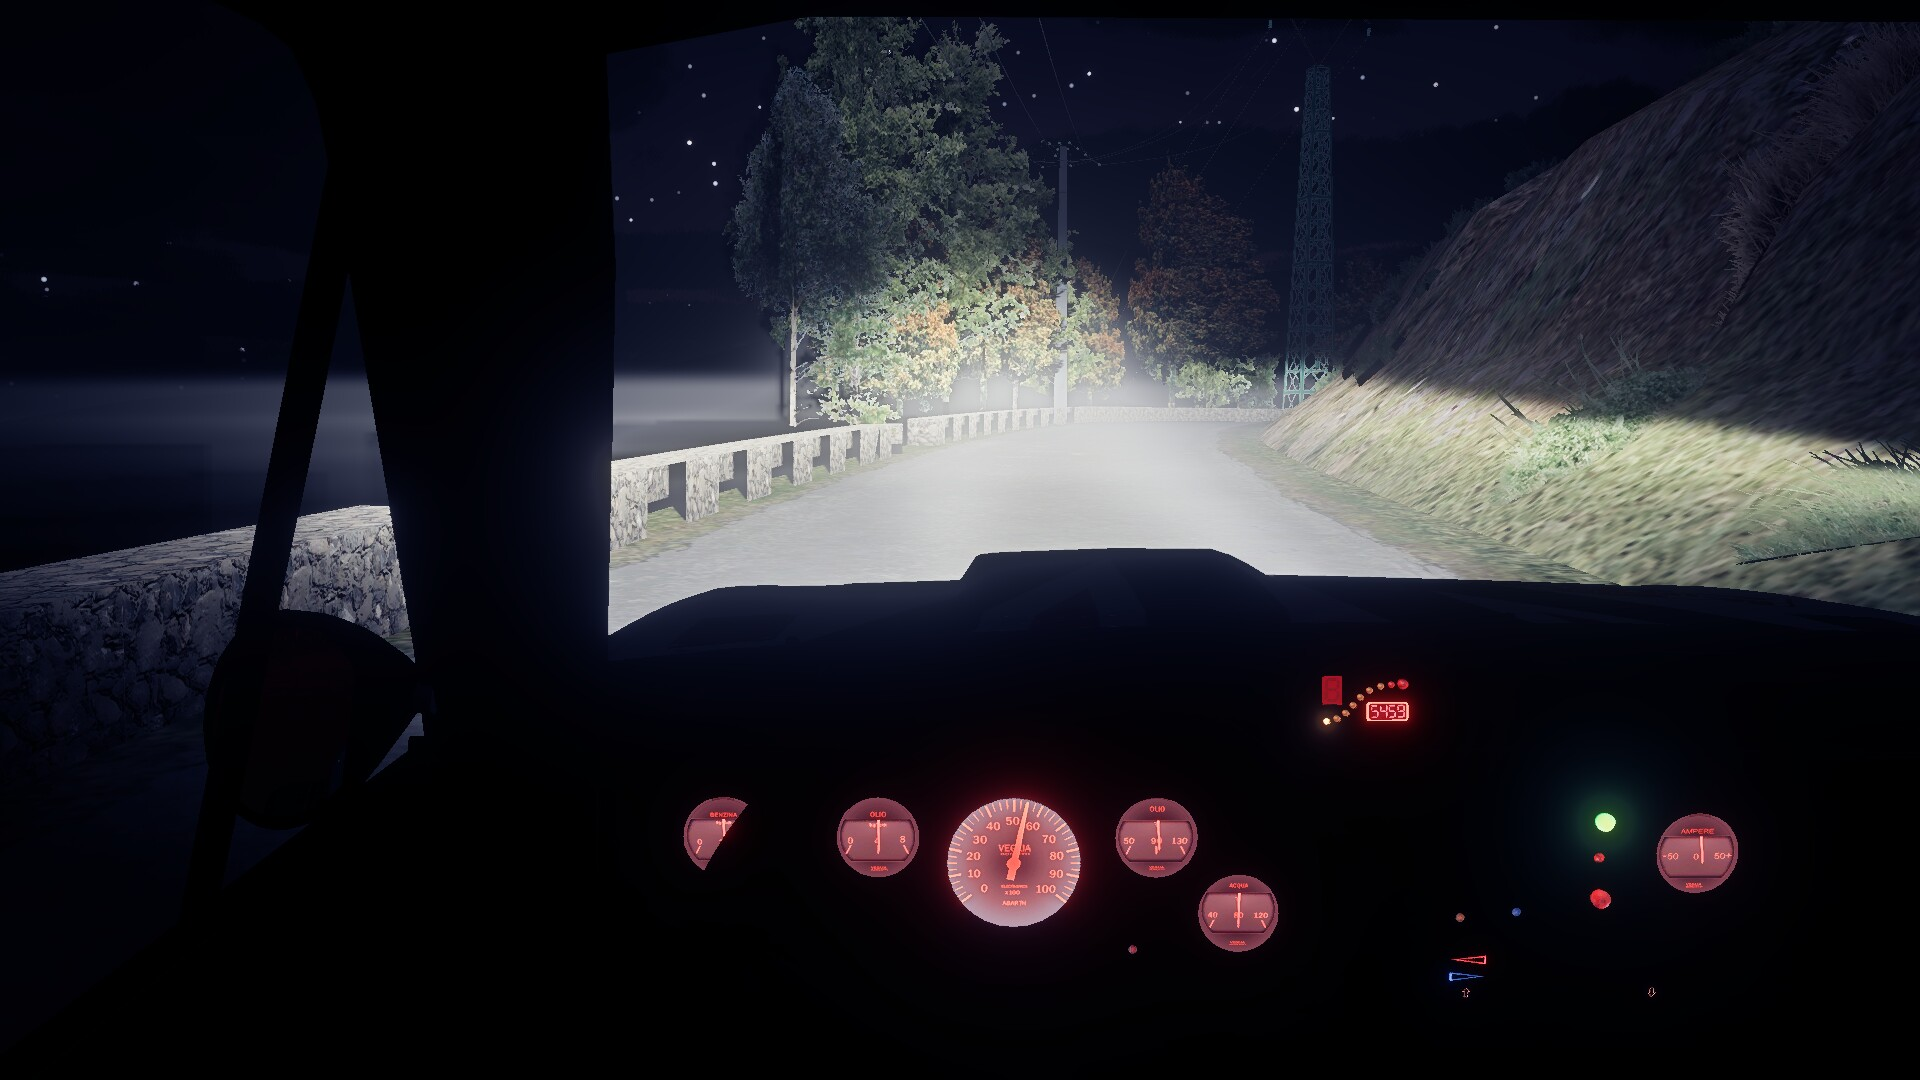
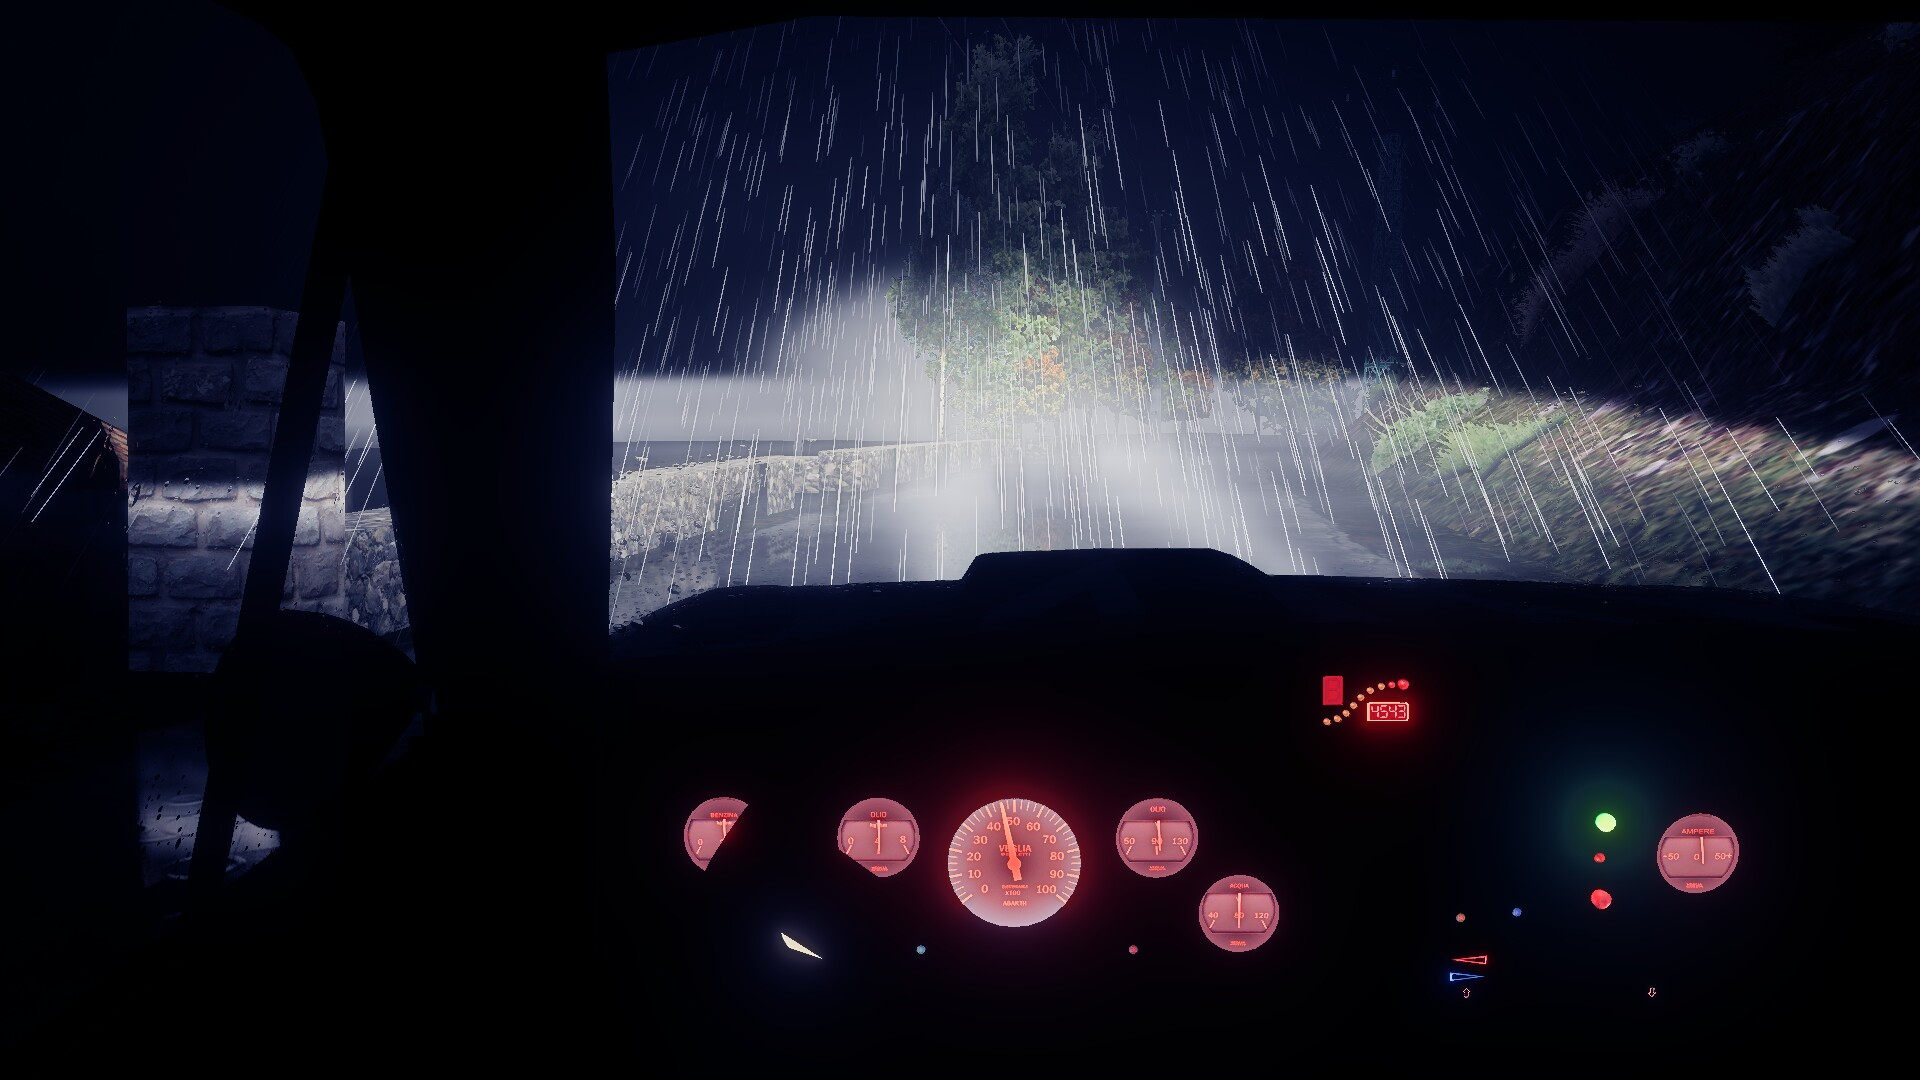
Reference shots: the Luceram GC8 fly-by and cockpit and the 131 night cockpit in heavy rain

diff --git a/README.md b/README.md
@@ -29,7 +29,7 @@ later). Everything you know and love + optional enhancements. Bring your own gam
 | Renault Clio Rally3 (model by DMRally74), Sipirkakim, Japan | Peugeot 208 Rally4 (model by DMRally74), Helette (stage by MonkeyZy) |
 | ![The cockpit of a Subaru Impreza GC8 555 in fog on Alpes Rally, the road fading into the haze](docs/shots/fog-alpes-gc8-cockpit.jpg) | ![A Toyota GR Yaris Rally2 on the snow of Peklo Snow](docs/shots/snow-peklo-yaris-chase.jpg) |
 | Subaru Impreza GC8 555 Group A (model by gonzo_kool), Alpes Rally (stage by DmRally) | Toyota GR Yaris Rally2 (model by Ha3aP), Peklo Snow (stage by Miro Kurek) |
-| ![The cockpit of a Fiat 131 Abarth Group 4 at night on Luceram Col Saint Roch, its dials lit red](docs/shots/night-luceram-131-cockpit.jpg) | ![A Renault Clio Rally3 on Komarov Snow](docs/shots/snow-komarov-clio-chase.jpg) |
+| ![The cockpit of a Fiat 131 Abarth Group 4 at night in the rain on Luceram Col Saint Roch, its dials lit red](docs/shots/night-luceram-131-cockpit.jpg) | ![A Renault Clio Rally3 on Komarov Snow](docs/shots/snow-komarov-clio-chase.jpg) |
 | Fiat 131 Abarth Group 4 (model by DMRally74), Luceram Col Saint Roch (stage by Casgra11) | Renault Clio Rally3 (model by DMRally74), Komarov Snow (stage by Miro Kurek, Myra43 & Napa RBR Cup) |
 
 The whole set of 31: [docs/shots](docs/shots/README.md).

diff --git a/docs/shots/README.md b/docs/shots/README.md
@@ -19,18 +19,6 @@ BMW M3 E30 GrpA, Gabiria Legazpi (RSF 450), flyby view, 11:00
 
 ![day-gabiria-m3-flyby](day-gabiria-m3-flyby.jpg)
 
-### day-luceram-gc8-cockpit
-
-Subaru Impreza GC8 555 GrpA, Luceram Col Saint Roch (RSF 417), cockpit view, 10:00
-
-![day-luceram-gc8-cockpit](day-luceram-gc8-cockpit.jpg)
-
-### day-luceram-gc8-flyby
-
-Subaru Impreza GC8 555 GrpA, Luceram Col Saint Roch (RSF 417), flyby view, 10:30
-
-![day-luceram-gc8-flyby](day-luceram-gc8-flyby.jpg)
-
 ### day-sipirkakim-clio-flyby
 
 Renault Clio Rally3, Sipirkakim (retail 52), flyby view, 13:00
@@ -88,6 +76,18 @@ Subaru Impreza GC8 555 GrpA, Odry (RSF 462), chase view, 18:30
 Subaru Impreza GC8 555 GrpA, Sipirkakim (retail 52), chase view
 
 ![rain-sipirkakim-gc8-chase](rain-sipirkakim-gc8-chase.jpg)
+
+### rain-luceram-gc8-cockpit
+
+Subaru Impreza GC8 555 GrpA, Luceram Col Saint Roch (RSF 417), cockpit view, 10:00
+
+![rain-luceram-gc8-cockpit](rain-luceram-gc8-cockpit.jpg)
+
+### rain-luceram-gc8-flyby
+
+Subaru Impreza GC8 555 GrpA, Luceram Col Saint Roch (RSF 417), flyby view, 10:30
+
+![rain-luceram-gc8-flyby](rain-luceram-gc8-flyby.jpg)
 
 ## Fog
 
